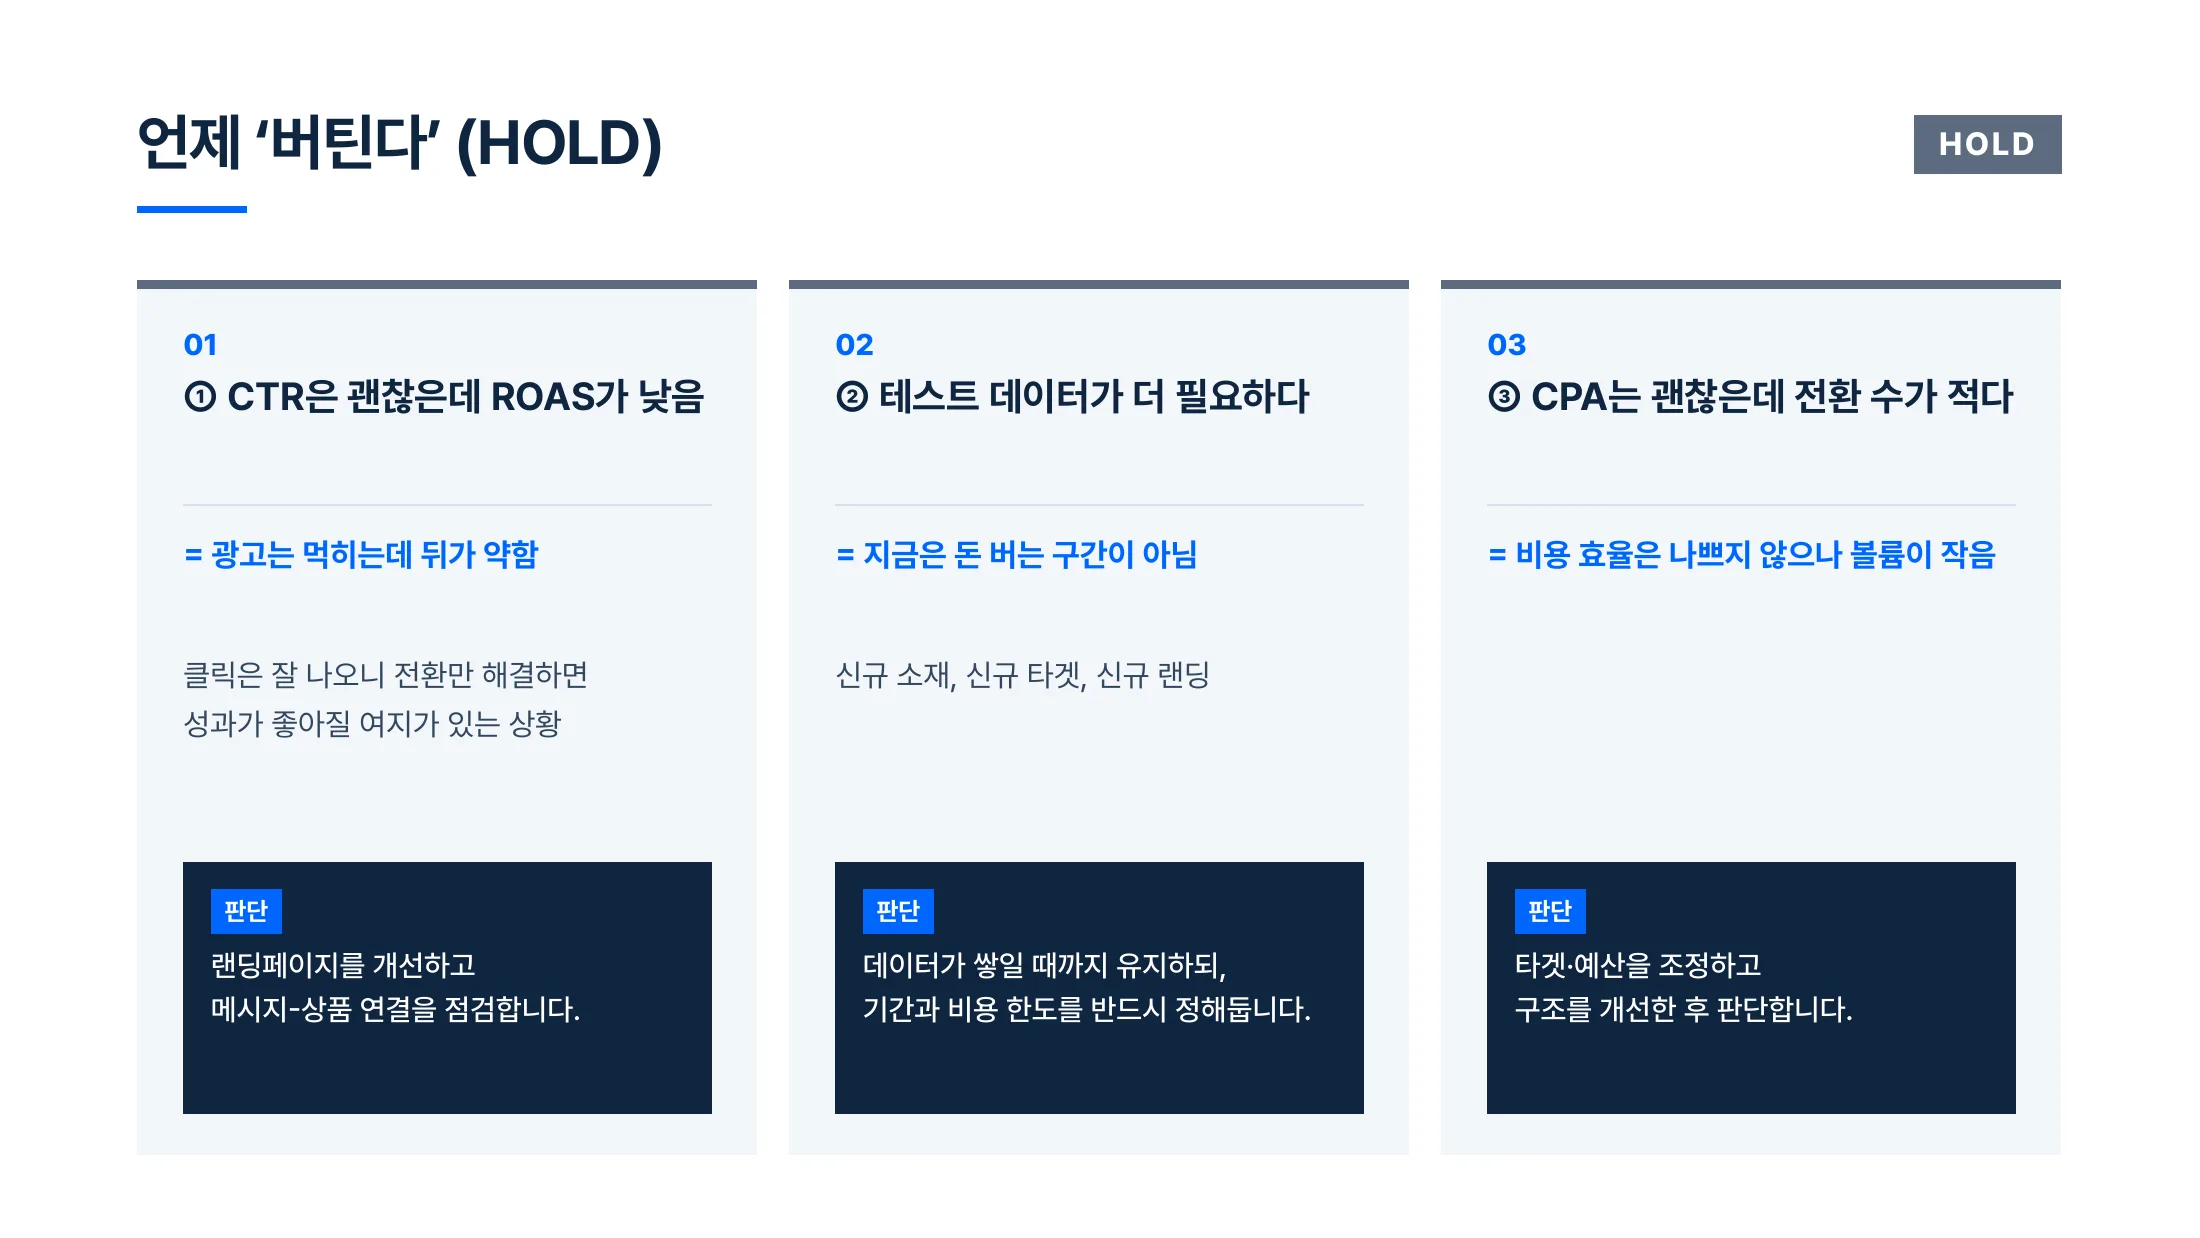
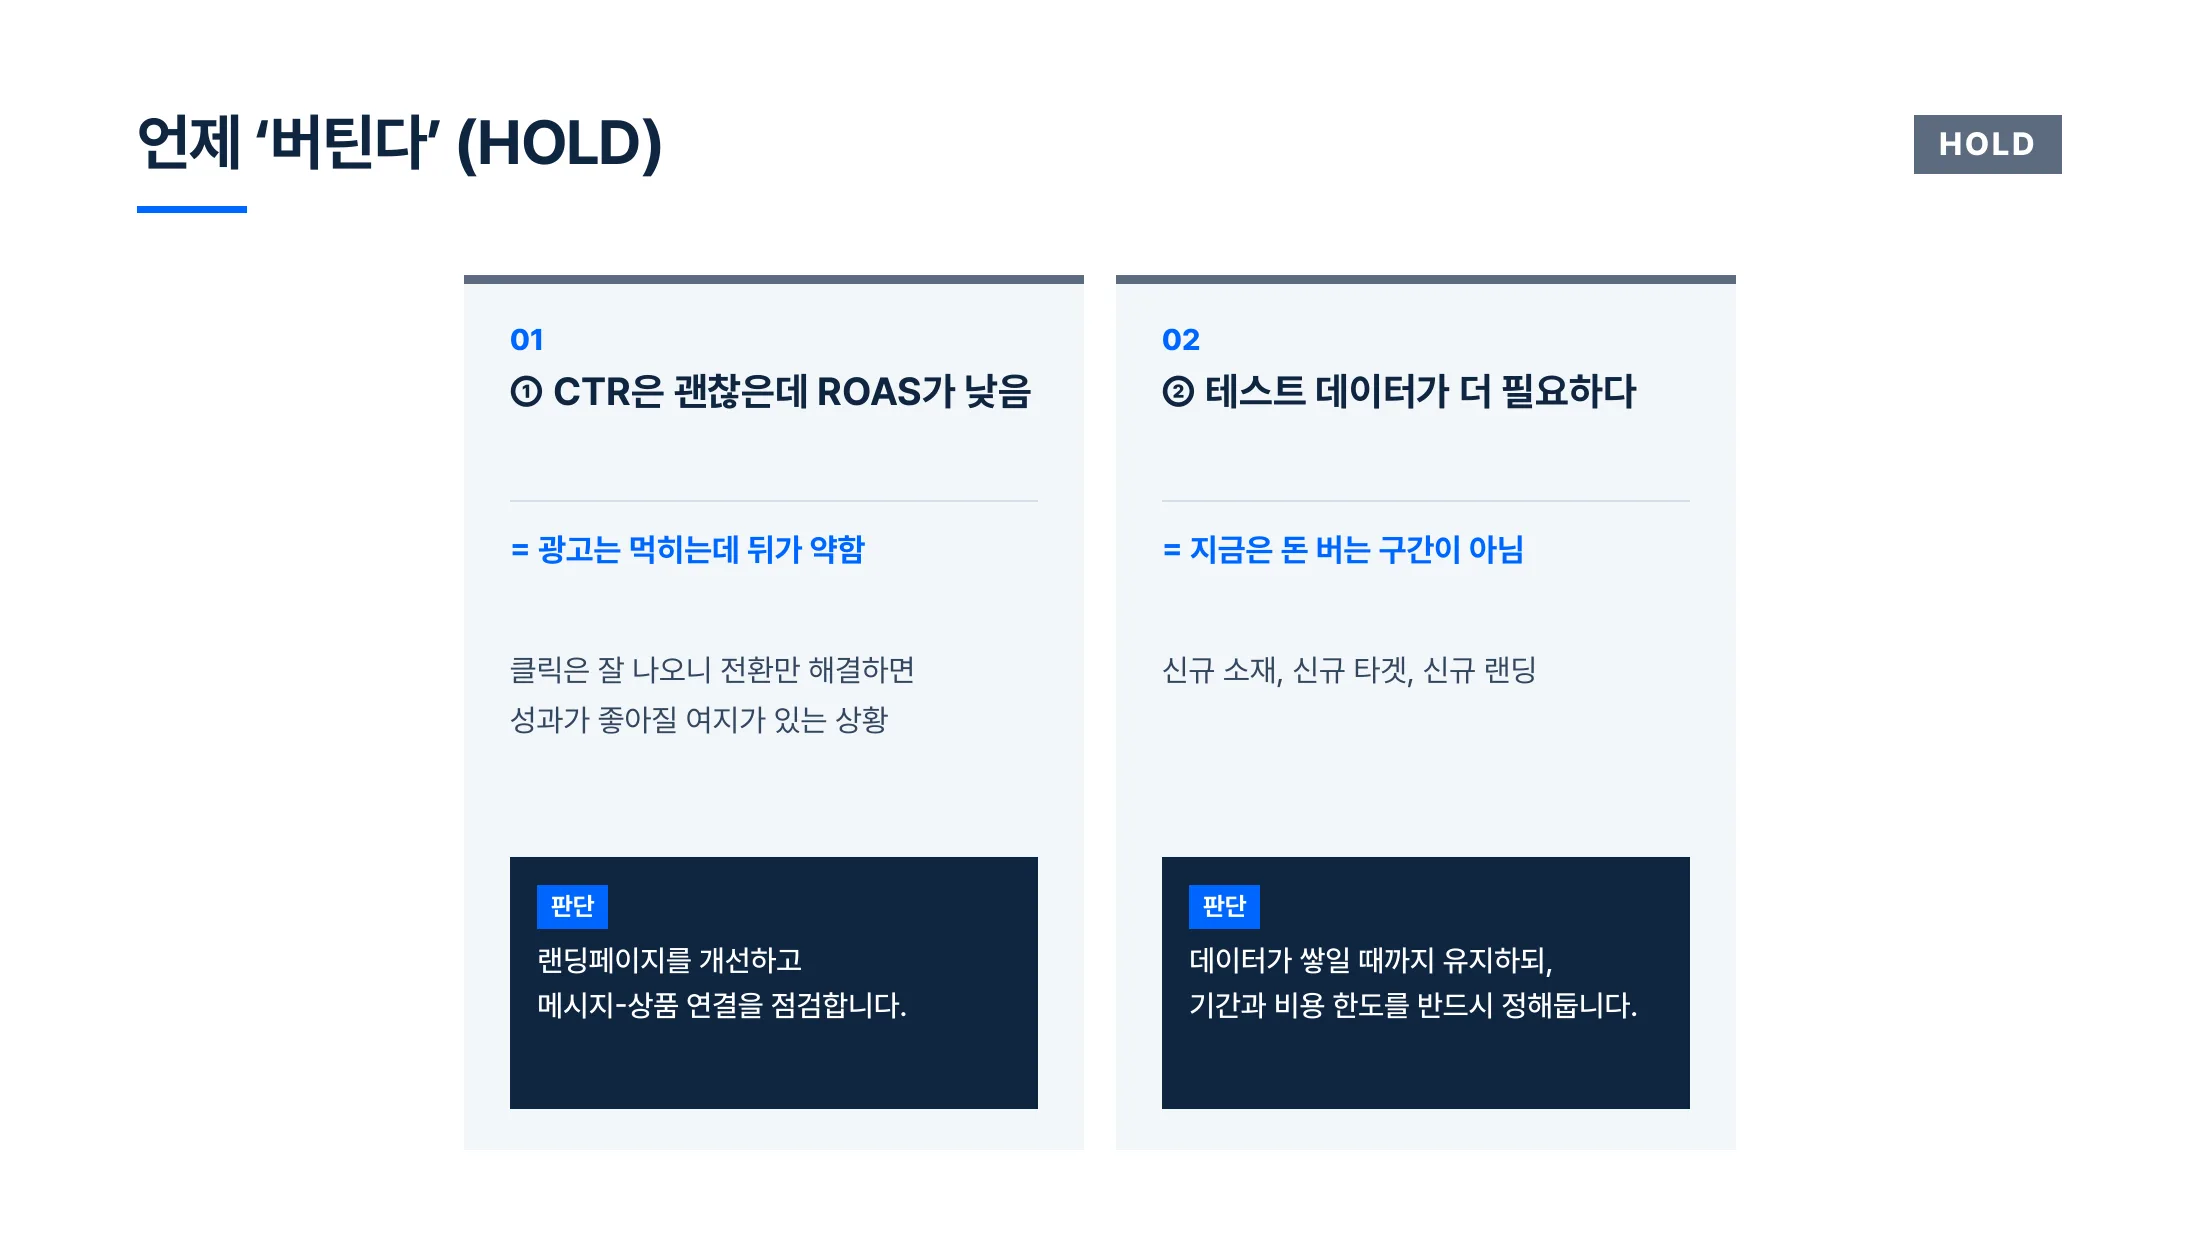
Replace Chapter 4 hold decision slide

diff --git a/script.js b/script.js
@@ -68,6 +68,7 @@ function showChapter(i) {
     const img = document.createElement("img");
     img.src = `pages/${ch.id}/${pad(p)}.webp`;
     if (ch.id === "ch4" && (p === 33 || p === 34)) img.src += "?order=question-first-20261106";
+    if (ch.id === "ch4" && p === 96) img.src += "?slide=hold-update-20261112";
     img.alt = `${ch.title} - ${p}페이지`;
     img.loading = "lazy";
     slide.appendChild(img);

diff --git a/index.html b/index.html
@@ -84,6 +84,6 @@
 
   <script src="chapters.js?v=chapter4-append-20261112"></script>
   <script src="links.js?v=chapter4-meta-goals-link-20261112"></script>
-  <script src="script.js?v=chapter4-meta-goals-visible-20261112"></script>
+  <script src="script.js?v=chapter4-hold-update-20261112"></script>
 </body>
 </html>
